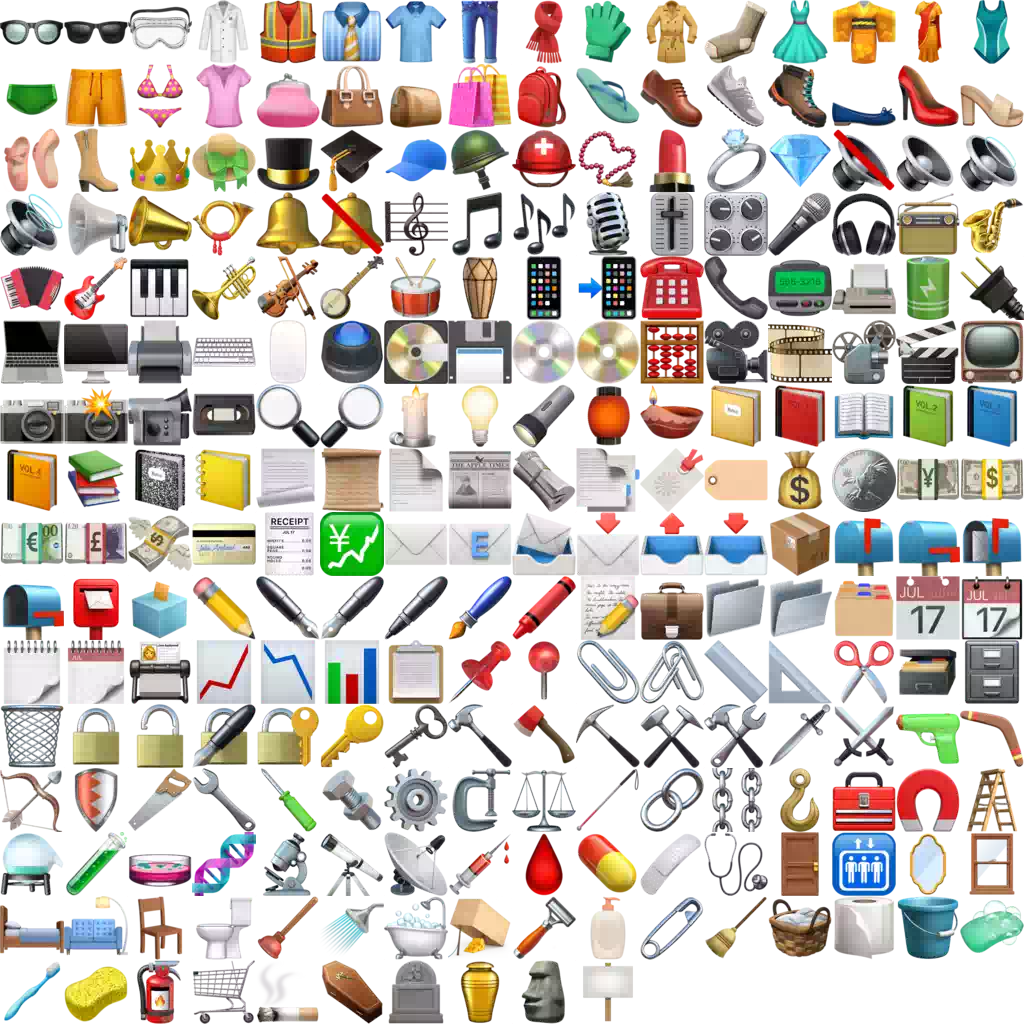
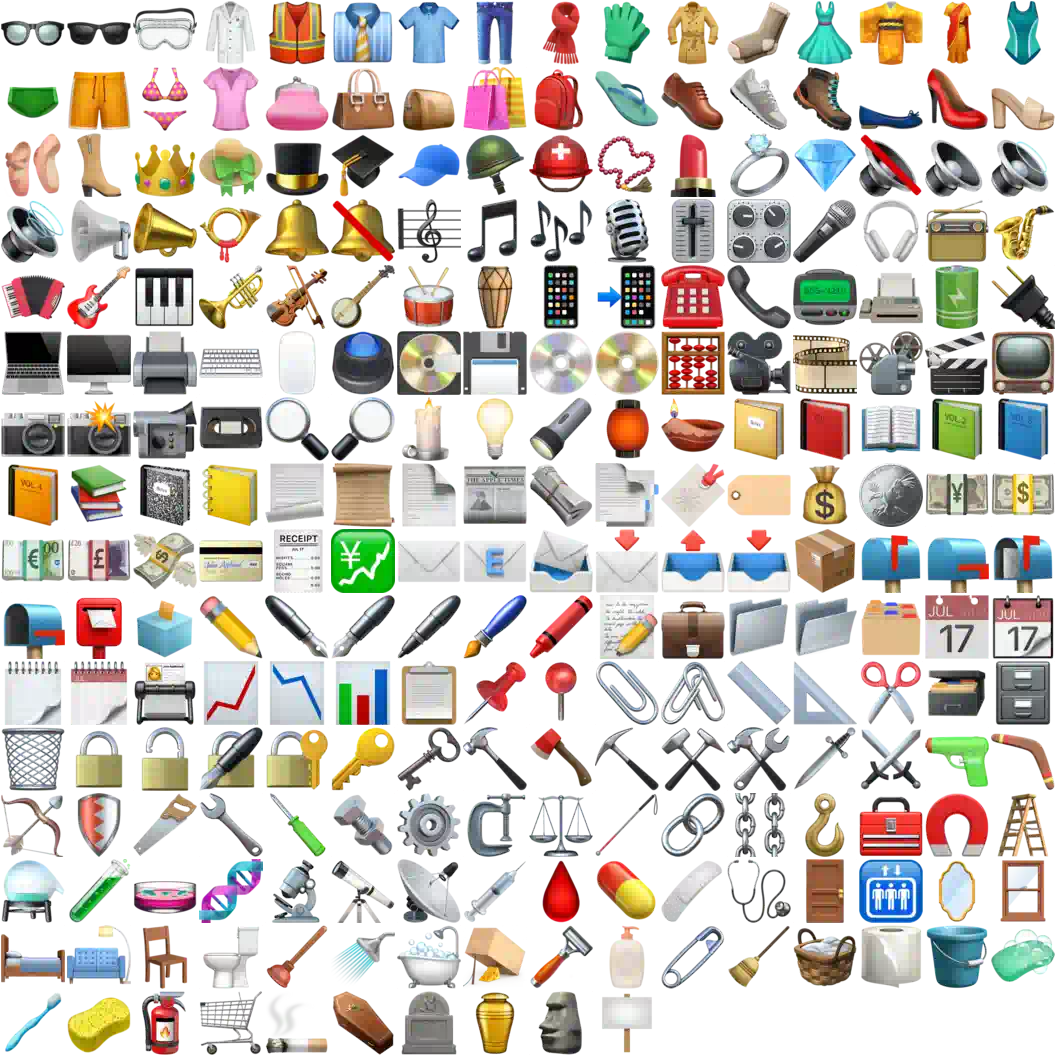
Update included emoji to 13.1

diff --git a/app/src/main/java/org/thoughtcrime/securesms/components/settings/app/internal/InternalSettingsFragment.kt b/app/src/main/java/org/thoughtcrime/securesms/components/settings/app/internal/InternalSettingsFragment.kt
@@ -221,7 +221,7 @@ class InternalSettingsFragment : DSLSettingsFragment(R.string.preferences__inter
         summary = DSLSettingsText.from(emojiSummary),
         isChecked = state.useBuiltInEmojiSet,
         onClick = {
-          viewModel.setDisableAutoMigrationNotification(!state.useBuiltInEmojiSet)
+          viewModel.setUseBuiltInEmoji(!state.useBuiltInEmojiSet)
         }
       )
 
